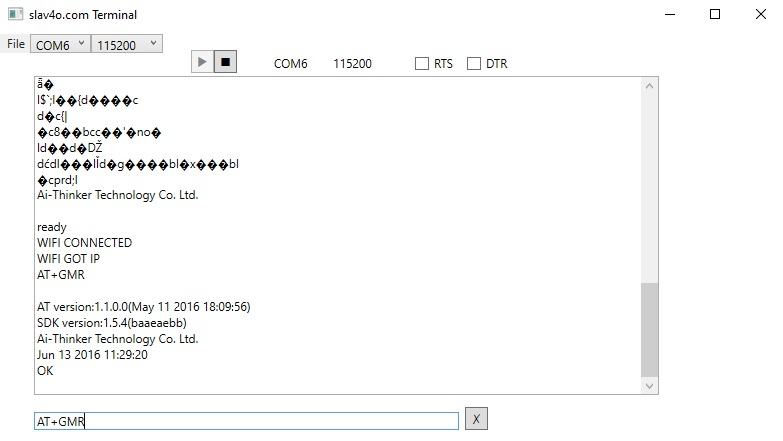
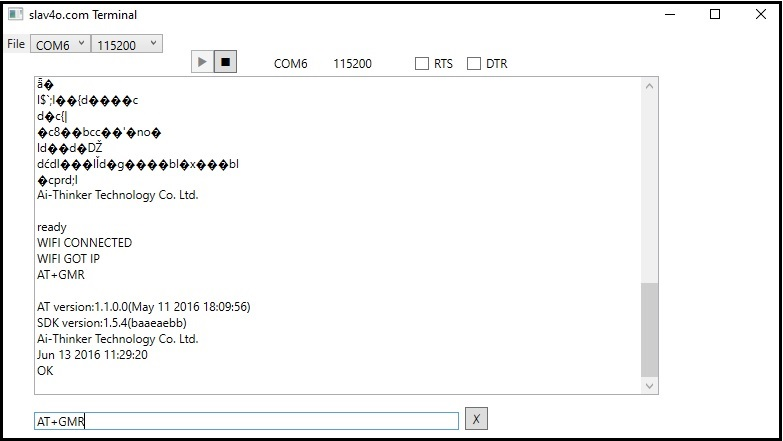
added example

Changed region(s): [[0.0, 0.0, 1.0, 1.0]]

diff --git a/README.md b/README.md
@@ -8,5 +8,8 @@ Compiled with .NET CORE 3.1
 Nuget package required: <b>System.IO.Ports</b>
 
 Write AT command or any data in bottom text box and press <b>ENTER</b> to send it to the connected Comport
+
+example communication test with ESP8266:
+
 ![alt text](https://github.com/slav4ocom/WPF-Serial-Terminal/blob/main/view.jpg)
 
